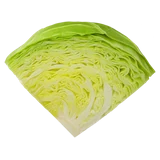
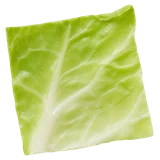
Use a single cut cabbage piece and fuller melted cheese

diff --git a/Activities/pizza-qr-prototype/catalog.js b/Activities/pizza-qr-prototype/catalog.js
@@ -7,12 +7,12 @@ window.PizzaCatalog = {
     { id: 'mushroom', name: 'マッシュルーム', english: 'Mushrooms' },
     { id: 'green-pepper', name: 'ピーマン', english: 'Green peppers' },
     { id: 'tomato', name: 'トマト', english: 'Tomatoes' },
-    { id: 'cabbage', name: 'キャベツ', english: 'Cabbage' },
+    { id: 'cabbage', name: 'キャベツ', english: 'Cabbage', image: 'assets/cabbage.webp?v=4' },
     { id: 'corn', name: 'コーン', english: 'Corn' },
     { id: 'carrot', name: 'ニンジン', english: 'Carrots' },
     { id: 'cucumber', name: 'キュウリ', english: 'Cucumbers' },
     { id: 'potato', name: 'ジャガイモ', english: 'Potatoes' },
     { id: 'sausage', name: 'ソーセージ', english: 'Sausages' },
     { id: 'bacon', name: 'ベーコン', english: 'Bacon' }
-  ].map(ingredient => ({ ...ingredient, image: 'assets/' + ingredient.id + '.webp' }))
+  ].map(ingredient => ({ image: 'assets/' + ingredient.id + '.webp', ...ingredient }))
 };

diff --git a/Activities/pizza-qr-prototype/index.html b/Activities/pizza-qr-prototype/index.html
@@ -6,7 +6,7 @@
   <title>MY PIZZA | DEKIRU</title>
   <link rel="stylesheet" href="style.css?v=2">
   <script defer src="vendor/jsQR.js"></script>
-  <script defer src="catalog.js?v=2"></script>
+  <script defer src="catalog.js?v=4"></script>
   <script defer src="scanner.js?v=2"></script>
   <script defer src="app.js?v=3"></script>
 </head>
@@ -31,7 +31,7 @@
       </div>
       <div id="pizza" role="group" aria-label="ピザ">
         <img id="base" src="assets/base-tomato.webp" alt="" draggable="false">
-        <img id="cheese-layer" src="assets/cheese.webp?v=3" alt="" draggable="false" hidden>
+        <img id="cheese-layer" src="assets/cheese.webp?v=4" alt="" draggable="false" hidden>
         <button type="button" id="placement" aria-label="選んだ具材をピザにのせる"></button>
         <div id="toppings"></div>
       </div>

diff --git a/Activities/pizza-qr-prototype/shop-cards.html b/Activities/pizza-qr-prototype/shop-cards.html
@@ -5,7 +5,7 @@
   <meta name="viewport" content="width=device-width, initial-scale=1">
   <title>MY PIZZA お店用カード | DEKIRU</title>
   <link rel="stylesheet" href="shop-cards.css">
-  <script defer src="catalog.js"></script>
+  <script defer src="catalog.js?v=4"></script>
   <script defer src="shop-cards.js"></script>
 </head>
 <body>
